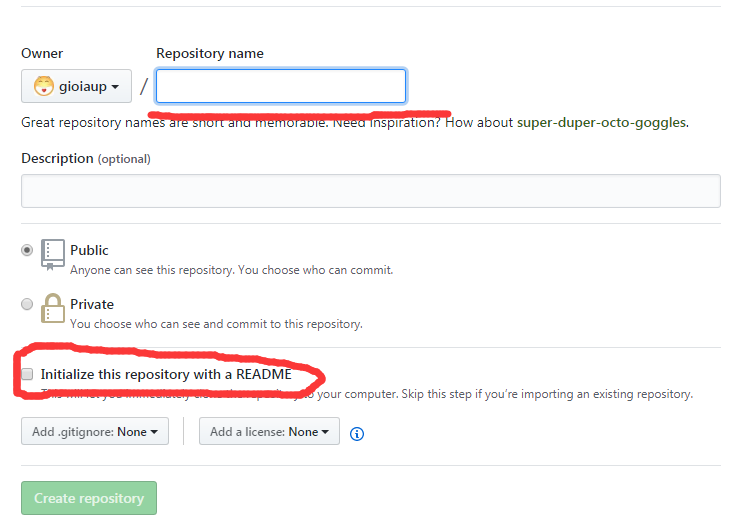
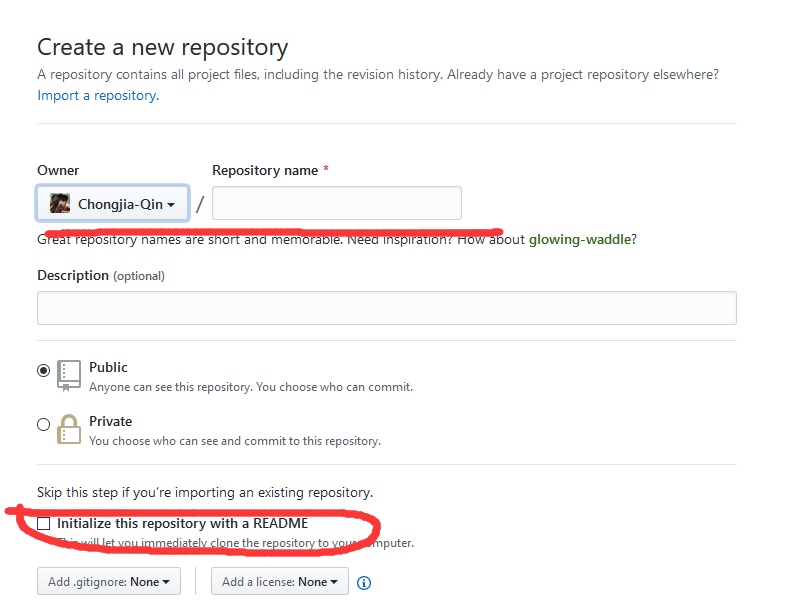
add
add

diff --git a/_posts/闲谈/2019-11-11-Create blog.md b/_posts/闲谈/2019-11-11-Create blog.md
@@ -14,4 +14,19 @@ tags:
 #### 1.1 创建一个仓库 ####
 登录之后，你会看到这个按钮
 ![](/img/create my blog/1.jpg)
-
+点击之后你会看到下面内容
+![](/img/create my blog/2.png)
+第一个红线是要创建的仓库的名称，这里要注意格式：用户名.github.io，例如我的用户名是Chongjia-qin，那么这里仓库名就需要填入Chongjia-qin.github.io
+第二个红圈表示是否需要创建一个README文件，这里我们就不创建了，因为我们下面会用到Jekyll为我们提供的模板里面有。
+#### 1.2 创建完后 ####
+![](/img/create my blog/3.png)
+这里显示的URL，就是当前仓库的远程地址，可用于clone或者push。
+现在github的工作就准备完成了90%，还剩下SSH公钥没配置，后面会提到。
+### 第二步：安装git+Jekyll ###
+#### 2.1 下载安装git ####
+地址在这里：[https://git-scm.com/download/win](https://git-scm.com/download/win)
+安装完git点击后鼠标右键应该会出现下面两个选项
+![](/img/create my blog/4.png)
+#### 2.2 安装ruby ####
+下载链接：[https://rubyinstaller.org/downloads/](https://rubyinstaller.org/downloads/)
+![](/img/create my blog/5.png)
